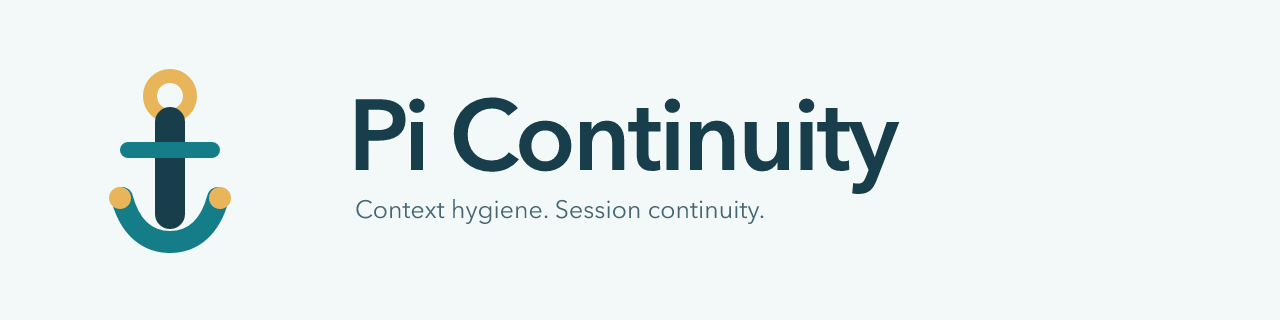
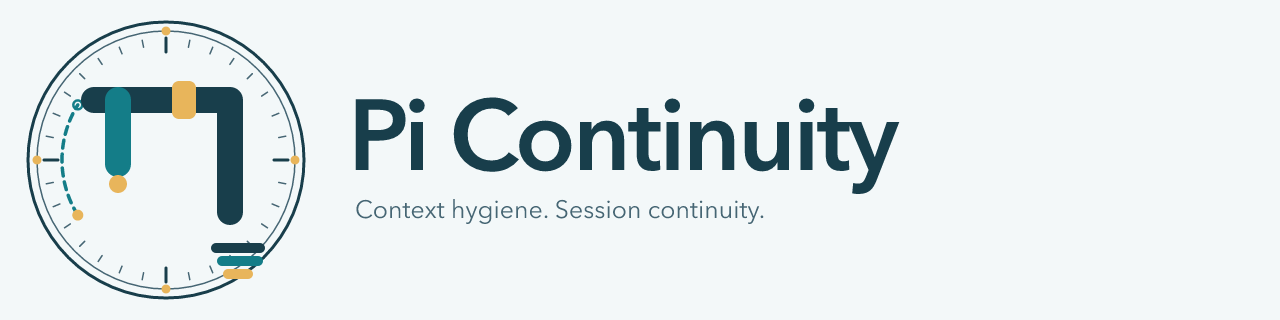
Replace the mark with the engraved continuity emblem
The emblem is an instrument ring read as the session itself: an
unbroken double ring with 32 turn-boundary ticks and four gold EESV
beads, a dashed cache-lifetime arc with a request-start bead and a
hollow read end, and the pi glyph at the center — a gold excerpt
plaque threaded on the kept-context bar, a bounded teal stem ending at
an anchor point, the retained tail turning down into narrowing
extract-synthesize-verify strata that fall into the archive. Same five
colors, no gradients; the continuity-mark regeneration contract is
unchanged (the icon script now places the centered mark without a
shift). identity.md documents the anatomy and meanings.

Changed region(s): [[0.0, 0.0625, 0.25, 0.9375]]

diff --git a/docs/identity.md b/docs/identity.md
@@ -35,18 +35,31 @@ package is published by this identity change.
 
 ## Visual language
 
-The mark is a **stylized anchor**: a gold ring holds the shank, a teal
- crossbar and upturned arms carry the weight, and gold tips mark the fluke
- points. It expresses a dependable way back — continuity, not compression —
- without using a generic compression arrow, database stack or infinity symbol.
- This is a visual metaphor, not a diagram of the compaction algorithm.
+The mark is an **engraved continuity emblem** — an instrument ring read as the
+session itself, with the π glyph living inside it. Every element names a real
+behavior; nothing is decoration for its own sake:
+
+| Element | Meaning |
+| --- | --- |
+| Unbroken double ring | the session envelope: continuity around everything |
+| 32 fine ticks | conversation turn boundaries on the session ring |
+| 4 gold cardinal beads | the EESV stages: extract, explore, synthesize, verify |
+| Dashed inner arc with a gold bead | the prompt-cache lifetime between requests; the gold bead is the request that starts the clock, the hollow end a cache read |
+| π interlace, ink | kept context: the bar turns down into the retained tail |
+| Gold plaque threaded on the bar | an archived excerpt that stays in context behind a retrievable reference |
+| Short teal stem with a gold foot | a bounded exploration that ends at an anchor point |
+| Narrowing strata falling from the kept tail | extract → synthesize → verify: noise condensed toward essence, archived below |
+
+It expresses continuity and measured hygiene without a generic compression
+arrow, database stack or infinity symbol. This is a visual metaphor, not a
+diagram of the compaction algorithm.
 
 | Role | Color | Use |
 | --- | --- | --- |
-| Deep ink | `#183E4B` | Shank and wordmark |
-| Return teal | `#147D88` | Crossbar and arms |
-| Anchor gold | `#E8B55B` | Ring and fluke tips; never body text |
-| Supporting ink | `#466674` | Banner descriptor |
+| Deep ink | `#183E4B` | Kept context, retained tail, outer ring, wordmark |
+| Return teal | `#147D88` | Compacted summary, stems, dashed cache arc |
+| Anchor gold | `#E8B55B` | EESV beads, excerpt plaque, archive essence; never body text |
+| Supporting ink | `#466674` | Fine ticks, inner ring, banner descriptor |
 | Mist | `#F3F8F9` | Banner and rounded catalog tile |
 
 The wordmark uses **Avenir Next Demi Bold**; the descriptor uses **Avenir Next
@@ -63,7 +76,7 @@ Installation steps, controls and warnings must remain available as text.
 ## Visual assets
 
 <p>
-  <img src="./assets/pi-smart-compact.png" alt="Pi Continuity: a stylized anchor with a gold ring and fluke tips" width="128" height="128" />
+  <img src="./assets/pi-smart-compact.png" alt="Pi Continuity: an engraved continuity emblem around a π interlace" width="128" height="128" />
 </p>
 
 | File | Dimensions | Purpose |
@@ -94,10 +107,10 @@ const mark = banner.match(/<g id="continuity-mark">[\s\S]*?<\/g>/)?.[0];
 if (!mark) throw new Error("Missing continuity-mark group in banner.svg");
 const icon = `<svg xmlns="http://www.w3.org/2000/svg" width="512" height="512" viewBox="0 0 320 320" role="img" aria-labelledby="title description">
   <title id="title">Pi Continuity</title>
-  <desc id="description">A stylized gold-topped anchor: context hygiene with a dependable way back.</desc>
+  <desc id="description">The continuity emblem: an engraved session ring with turn ticks and EESV beads around a π interlace with a gold excerpt plaque and narrowing archive strata.</desc>
   <!-- Generated from banner.svg; regenerate using docs/identity.md. -->
   <rect width="320" height="320" rx="64" fill="#F3F8F9"/>
-  <g transform="translate(-8 0)">${mark}</g>
+  <g>${mark}</g>
 </svg>
 `;
 writeFileSync(root + "pi-smart-compact.svg", icon);
